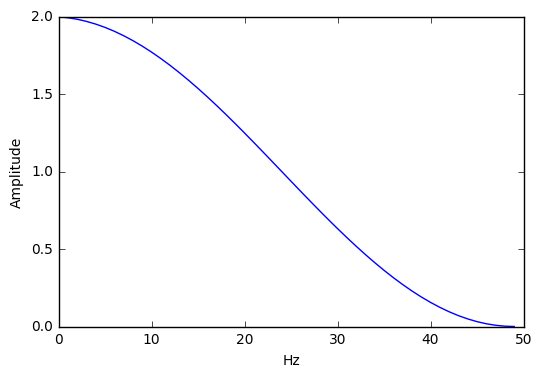
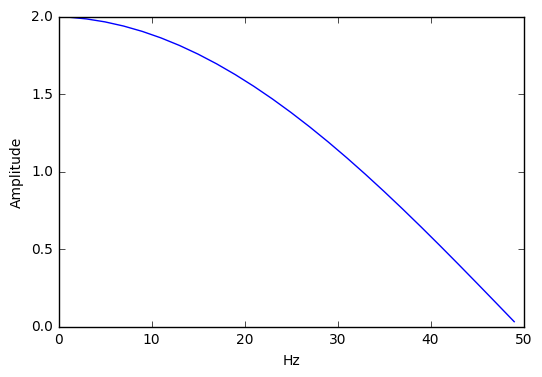
correction - amp

diff --git a/_posts/2017-6-1-LPF.md b/_posts/2017-6-1-LPF.md
@@ -112,22 +112,24 @@ So first we make a little function that holds a sample in mem, then in iterates 
 Now let's make a test function for it. 
 
 ```python
-def testSins(length):
+def testSines(length):
     
     results = []
     f = 1
-    while(f <= length / 2):
+    while(f < length / 2.0):
         sin = genSine(1.0, f, 0.0, length, 1.0)
-        results.append(abs(sum(lpf(sin))))
+        filteredSin = lpf(sin)
+        amp = max(filteredSin)
+        results.append(amp)
         f += 1
     plt.plot(results)
     plt.xlabel('Hz')
     plt.ylabel('Amplitude')
         
-testSins(100)
+testSines(101)
 ```
 
-This makes a range of sinusoids with our genSine function. They vary by their f value (frequency) which ranges from 1hz to the length divided by two (Nyquist). These are then put into the results list and plotted. Note that to get the amplitude of the output we summed all it's values and then took the absolute value (ie. got rid of any negitive sign). 
+This makes a range of sinusoids with our genSine function. They vary by their f value (frequency) which ranges from 1hz to the length divided by two (Nyquist). These are then put into the results list and plotted. The amplitude here can be found by taking the maximum value in the signal. Notice how the chosen length for the test was 101 - a prime number. I encourage you to run this code yourself with different lengths in order to figure out the significance of that. 
 
 ![Test result]({{ site.baseurl }}/images/1.7.png "frequency responce")
 
